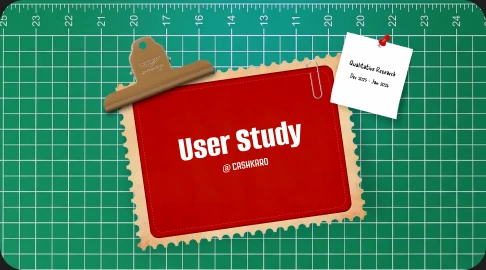
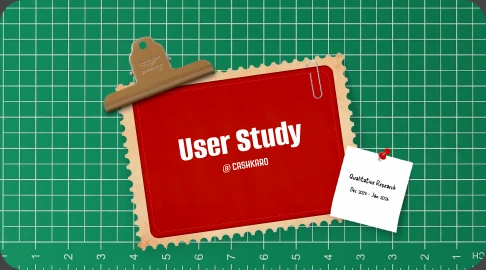
Fit work card artwork inside the white sheet as in Figma

diff --git a/styles.css b/styles.css
@@ -379,8 +379,11 @@ html.lenis, html.lenis body { height: auto; }
 .back-sheet .clip > img { left: -64.99%; top: -13.14%; width: 210.46%; height: 125.44%; }
 .photo-card { width: 472.823px; height: 290.004px; background: #fff; border-radius: 24px; overflow: hidden; }
 .photo-card > img { position: absolute; left: calc(50% + 0.35px); top: calc(50% - 82.87px); width: 486.061px; height: 648.082px; transform: translate(-50%, -50%); object-fit: cover; }
-/* Gamification and user research cards: the artwork fills the card. */
-.photo-card:is(.work1-art, .work2-art) > img { left: 0; top: 0; width: 100%; height: 100%; transform: none; object-fit: cover; }
+/* Gamification and user research cards: the full 486x270 artwork sits 7px inside the white sheet, as in Figma. */
+.photo-card:is(.work1-art, .work2-art) { width: 486px; height: 270px; }
+.photo-card:is(.work1-art, .work2-art) > img { left: 0; top: 0; width: 100%; height: 100%; transform: none; object-fit: fill; }
+.work-card .photo-card:is(.work1-art, .work2-art) { transform: translate(-1.8px, 13.68px); }
+.work-card:is(:hover, :focus-visible) .photo-card:is(.work1-art, .work2-art) { transform: translate(-2.38px, -17.87px) rotate(-4deg); }
 .folder-top { width: 206.207px; height: 562.94px; transform: rotate(-90deg); }
 .folder-top .clip > img { left: -152.63%; top: 0; width: 273%; height: 100%; }
 .folder-bottom { width: 168.439px; height: 564.202px; transform: rotate(-90deg); }

diff --git a/index.html b/index.html
@@ -8,7 +8,7 @@
   <link rel="preconnect" href="https://fonts.googleapis.com">
   <link rel="preconnect" href="https://fonts.gstatic.com" crossorigin>
   <link href="https://fonts.googleapis.com/css2?family=Delicious+Handrawn&family=Nunito:wght@300;400;500;600;700&display=swap" rel="stylesheet">
-  <link rel="stylesheet" href="styles.css">
+  <link rel="stylesheet" href="styles.css?v=2">
 </head>
 <body>
 <div class="viewport" id="viewport">
@@ -159,7 +159,7 @@
       </div>
       <!-- Photo, folder, paper clip and wax seal -->
       <div class="box" style="left:75.42px;top:252.32px;width:491.9px;height:322.28px">
-        <div class="photo-card tilt work2-art"><img src="assets/work2-research.webp" alt=""></div>
+        <div class="photo-card tilt work2-art"><img src="assets/work2-research.webp?v=2" alt=""></div>
       </div>
       <div class="box" style="left:36.18px;top:334.97px;width:562.94px;height:206.207px">
         <div class="folder-top"><div class="clip"><img src="assets/work-folder.webp" alt=""></div></div>
